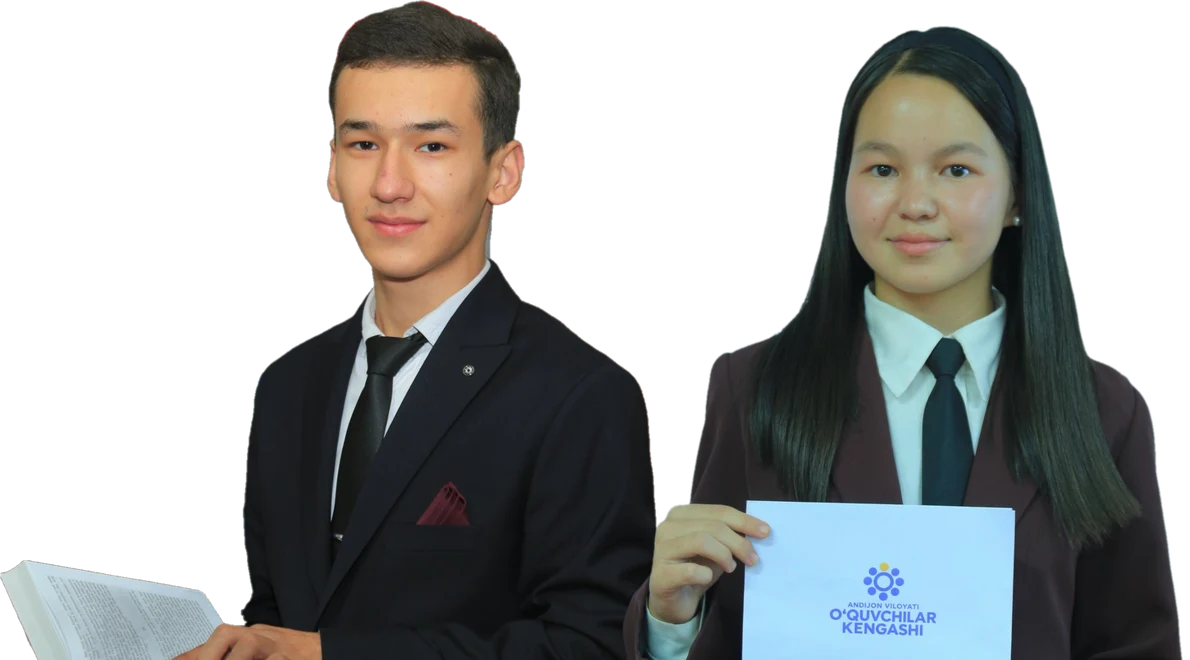
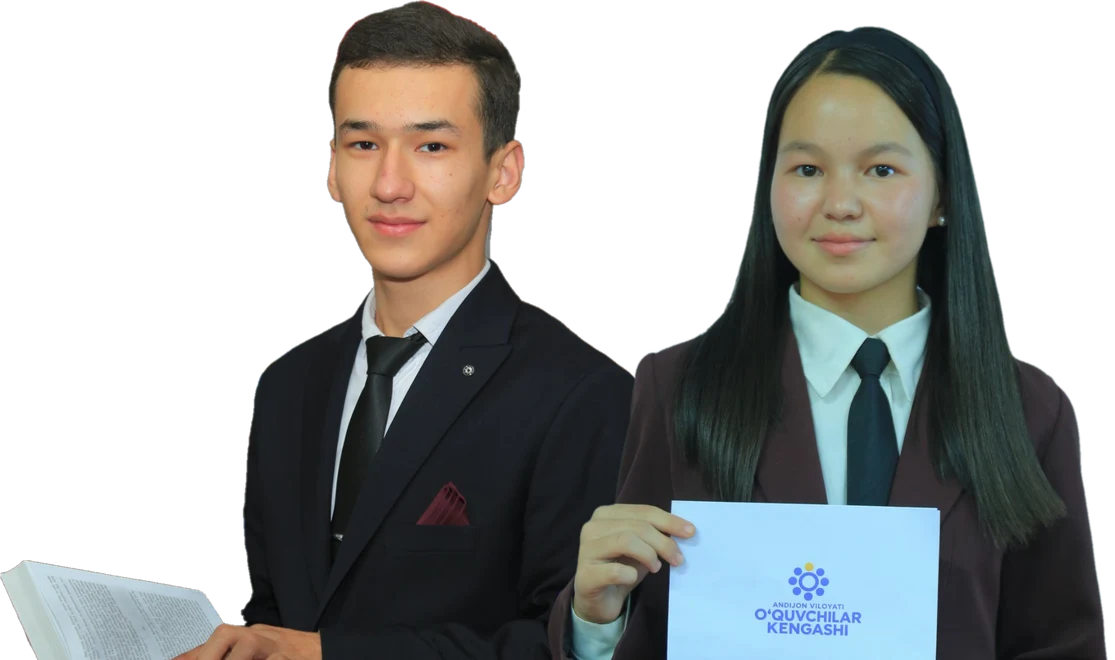
Hero: qiz va bola bir-biriga yaqinroq
Claude-Session: https://claude.ai/code/session_01Lub4uh6wLq5PnM1ufPtRB5

diff --git a/src/pages/Home.jsx b/src/pages/Home.jsx
@@ -89,7 +89,7 @@ function Hero({ tab, setTab }) {
           <img
             src="/images/hero-close.webp"
             alt={tr('O‘quvchilar kengashi a’zolari', 'Члены Совета учащихся')}
-            width="1190"
+            width="1115"
             height="660"
             fetchPriority="high"
             className="fade-up relative mx-auto h-auto w-full max-w-[820px] sm:w-[92%]"
